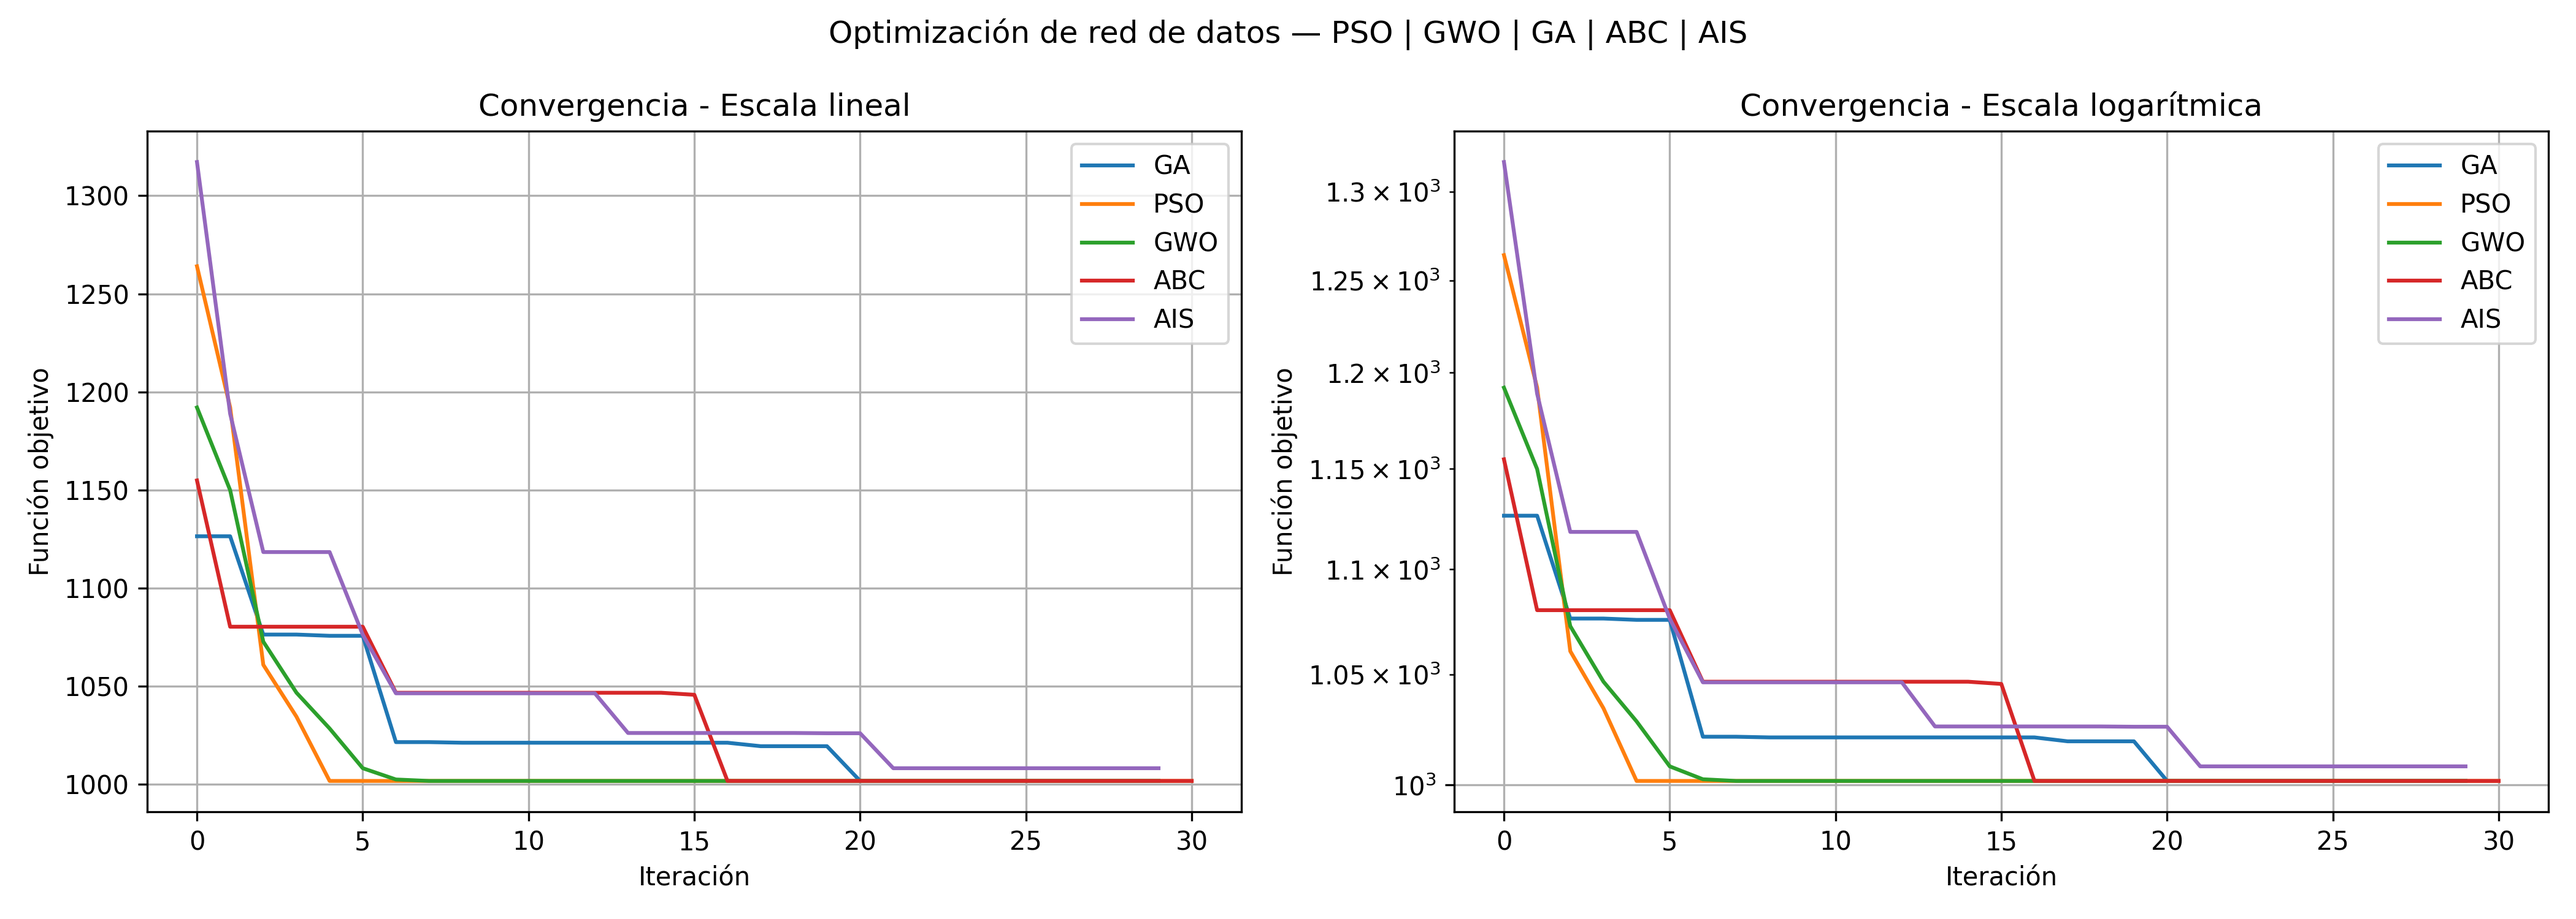
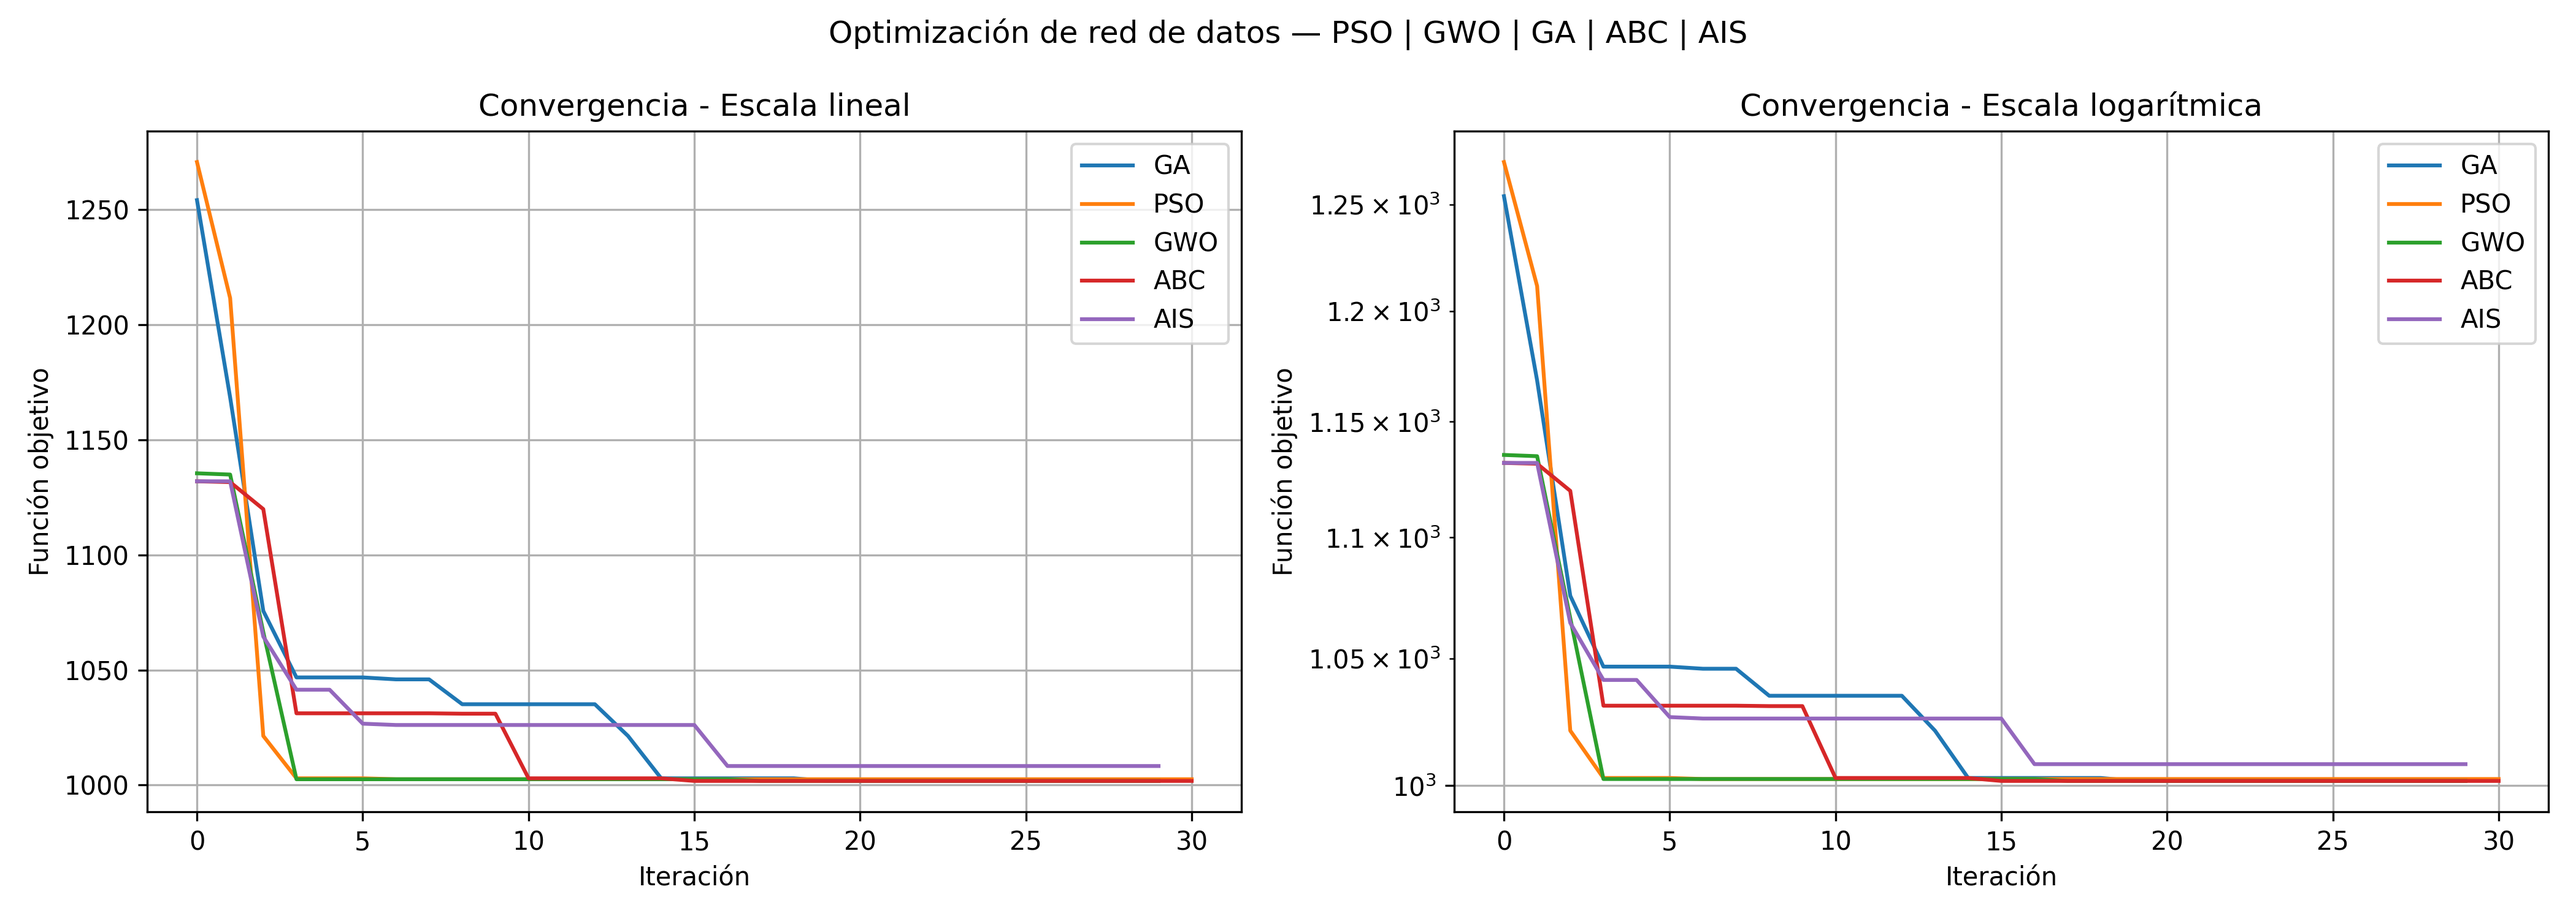
final

diff --git a/optimizacionRedDatos.py b/optimizacionRedDatos.py
@@ -16,14 +16,9 @@
 #       * exceso de capacidad
 #       * congestión respecto al umbral
 #
-# Representación:
 #   - Fenotipo: rutas reales usadas por las demandas en la red
-#   - Genotipo: vector discreto, donde cada gen indica cuál
+#   - Genotipo: vector [0,1], donde cada gen indica cuál
 #               ruta candidata usa cada demanda
-#
-# Requisitos:
-#   - Python 3.x
-#   - matplotlib para generar gráficas
 # ============================================================
 
 import random
@@ -35,7 +30,7 @@ import matplotlib.pyplot as plt
 # CONFIGURACIÓN GENERAL
 # ============================================================
 
-SEED = 42
+SEED = 7
 random.seed(SEED)
 
 # Pesos de la función objetivo
